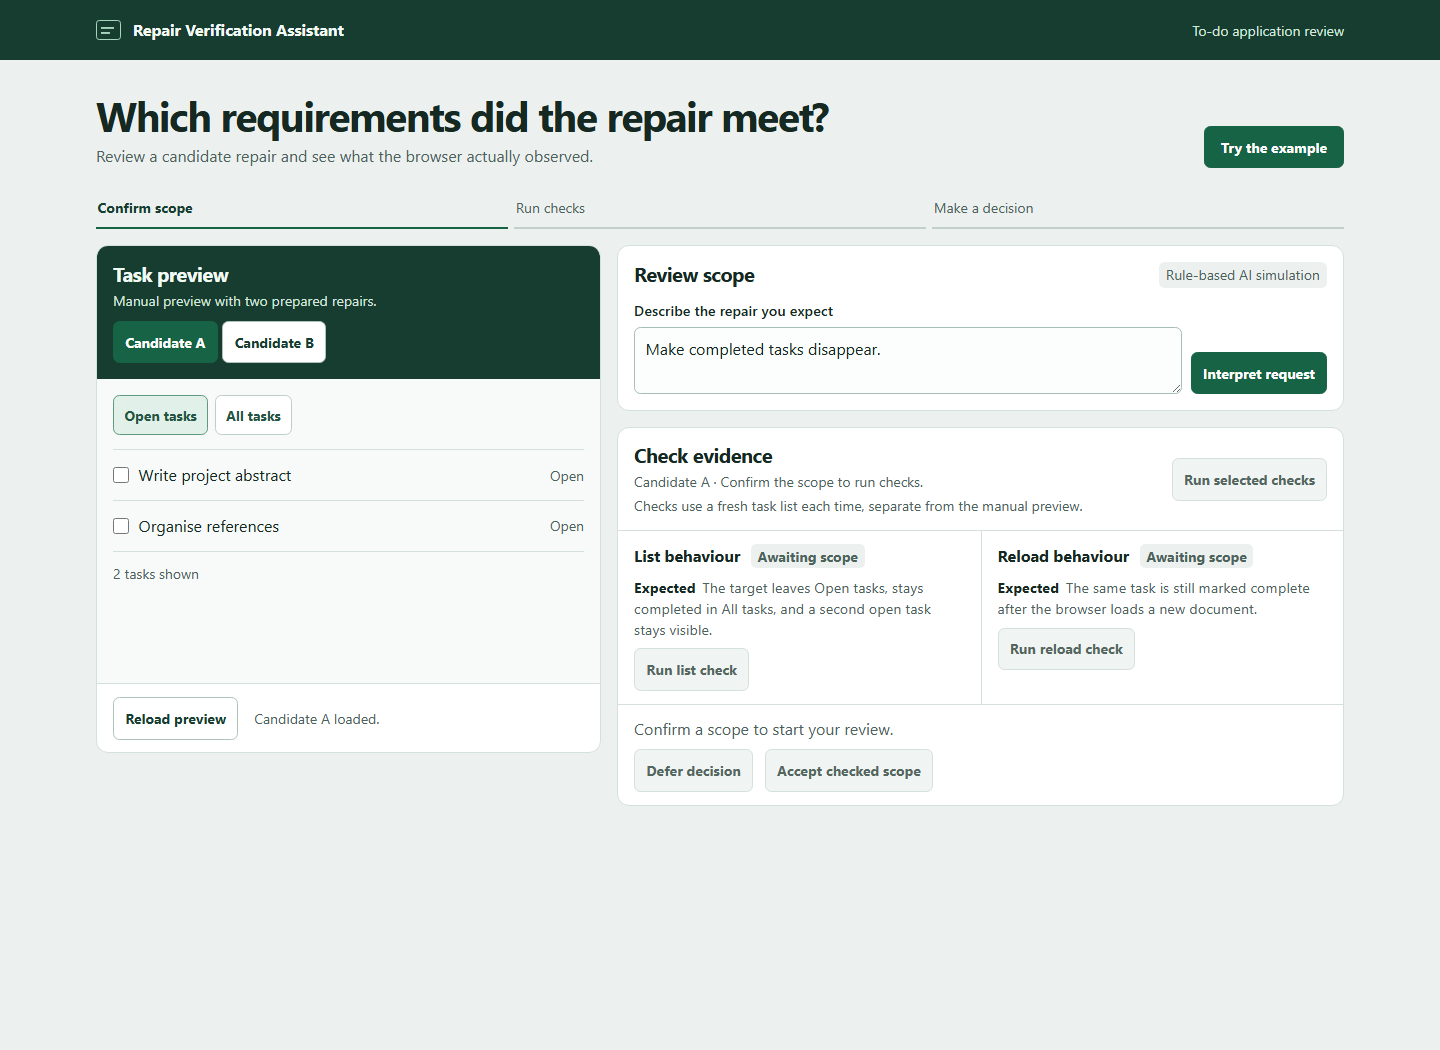
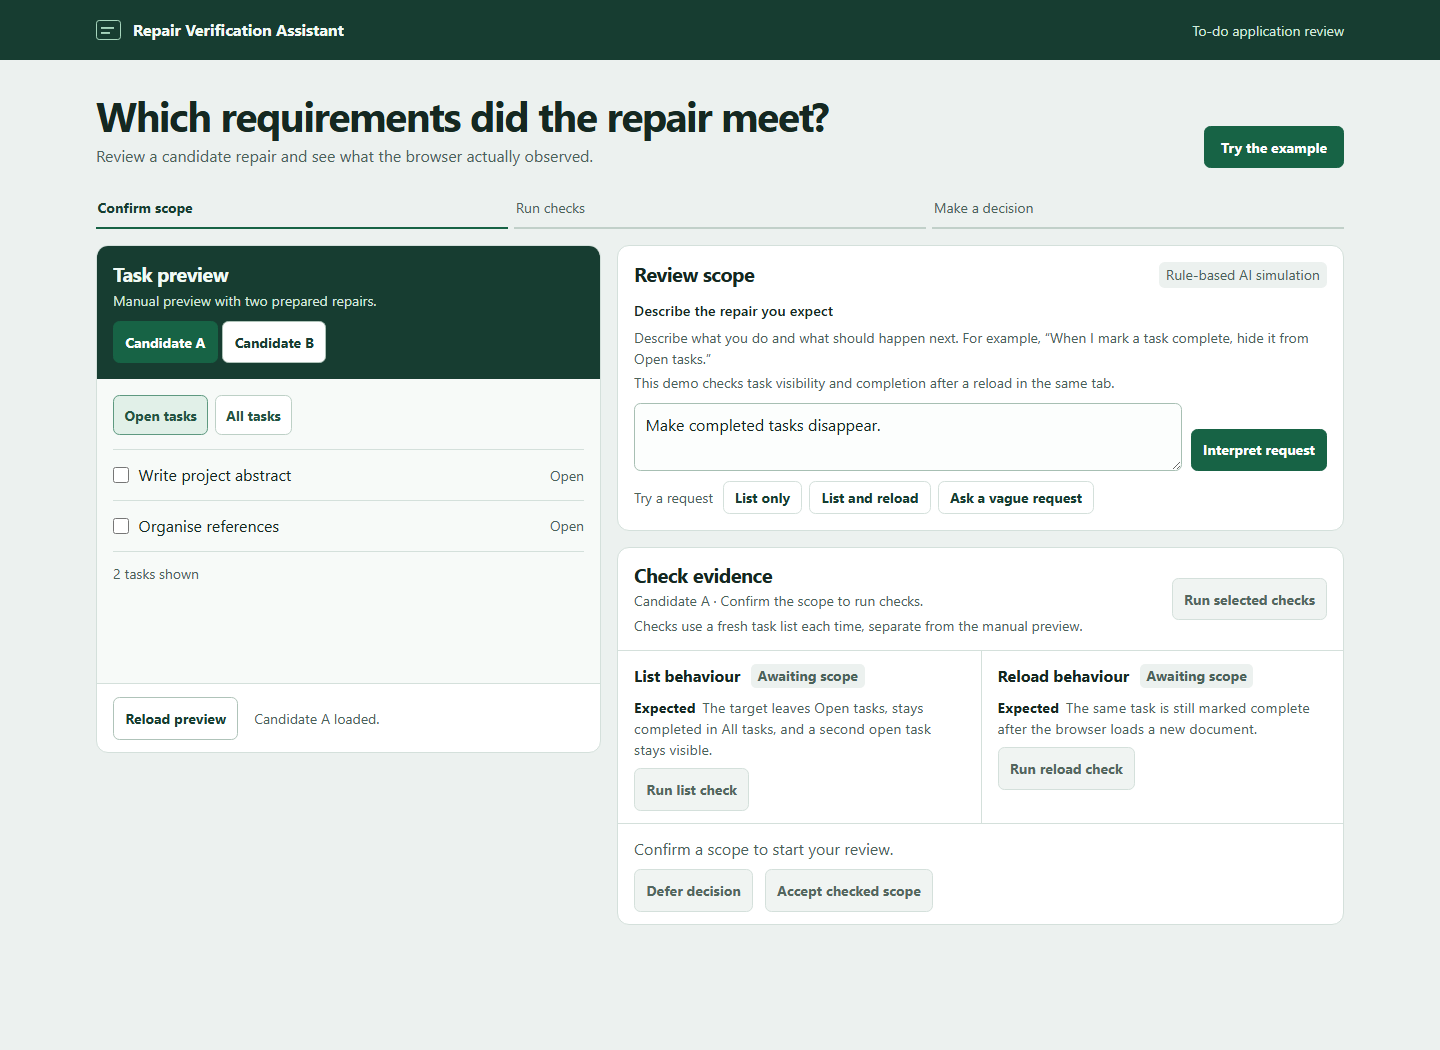
Stage 03: Clarify repair requests with testable examples

diff --git a/web/index.html b/web/index.html
@@ -56,9 +56,19 @@
           </header>
           <form id="request-form">
             <label for="request">Describe the repair you expect</label>
+            <div class="request-help" id="request-help">
+              <p>Describe what you do and what should happen next. For example, “When I mark a task complete, hide it from Open tasks.”</p>
+              <p>This demo checks task visibility and completion after a reload in the same tab.</p>
+            </div>
             <div class="request-row">
-              <textarea id="request" rows="2" maxlength="500" required>Make completed tasks disappear.</textarea>
+              <textarea id="request" rows="2" maxlength="500" aria-describedby="request-help" required>Make completed tasks disappear.</textarea>
               <button type="submit" class="button-accent" id="interpret">Interpret request</button>
+            </div>
+            <div class="request-examples" role="group" aria-label="Try a sample request">
+              <span>Try a request</span>
+              <button type="button" data-request-example="Hide completed tasks from the open list. No need to check reload.">List only</button>
+              <button type="button" data-request-example="Hide completed tasks from the open list. Keep completion after a reload.">List and reload</button>
+              <button type="button" data-request-example="Make completed tasks disappear.">Ask a vague request</button>
             </div>
           </form>
           <div class="suggestion" id="suggestion" hidden>

diff --git a/web/workbench.css b/web/workbench.css
@@ -141,6 +141,11 @@ iframe { display: block; width: 100%; min-height: 19rem; border: 0; background: 
 }
 #request-form { display: grid; gap: .35rem; margin-block-start: .75rem; }
 #request-form > label { font-weight: 620; font-size: .9rem; }
+.request-help { display: grid; gap: .2rem; color: var(--muted); font-size: .875rem; margin-block-end: .3rem; }
+.request-examples { display: flex; flex-wrap: wrap; align-items: center; gap: .35rem .45rem; margin-block-start: .25rem; }
+.request-examples > span { color: var(--muted); font-size: .875rem; margin-inline-end: .15rem; }
+.request-examples button { min-height: 2.1rem; padding-block: .25rem; border-color: var(--line); }
+@media (pointer: coarse) { .request-examples button { min-height: 2.75rem; } }
 .request-row { display: flex; align-items: end; flex-wrap: wrap; gap: .55rem; }
 textarea {
   display: block;

diff --git a/README.md b/README.md
@@ -1,6 +1,6 @@
 # Repair Verification Assistant
 
-Prose word count **499**. Headings and link text are included. Code blocks and setup commands are excluded.
+Prose word count **542**. Headings and link text are included. Code blocks and setup commands are excluded.
 
 A review workbench for a beginner with a candidate to-do app repair. Confirm the requirements, inspect browser evidence and decide what to accept.
 
@@ -42,6 +42,7 @@ The browser suite covers both candidates, manual reload, scope edits, context-se
 | Ask about persistence, then let users confirm or edit scope. | A short request can leave persistence implicit. Browser tests confirmed that changing the live view changes the suggestion and editing scope clears old evidence. |
 | Require passing evidence for acceptance and allow resuming a deferred review. | This is a provisional implementation choice. Checks cover failed, deferred, resumed and accepted decisions. |
 | Add a first-run example and an evidence summary. | The student asked for clearer guidance and an explanation of reload. The example fills in the two requirements. A browser test follows the progress indicator from confirmation to the split outcome. |
+| Add request guidance and three selectable examples. | The student asked what belongs in the input. The examples demonstrate list-only scope, both checks and a request that needs clarification. Browser tests inspect each response and check that earlier evidence clears when the request changes. |
 
 ## Authorship and AI assistance
 
